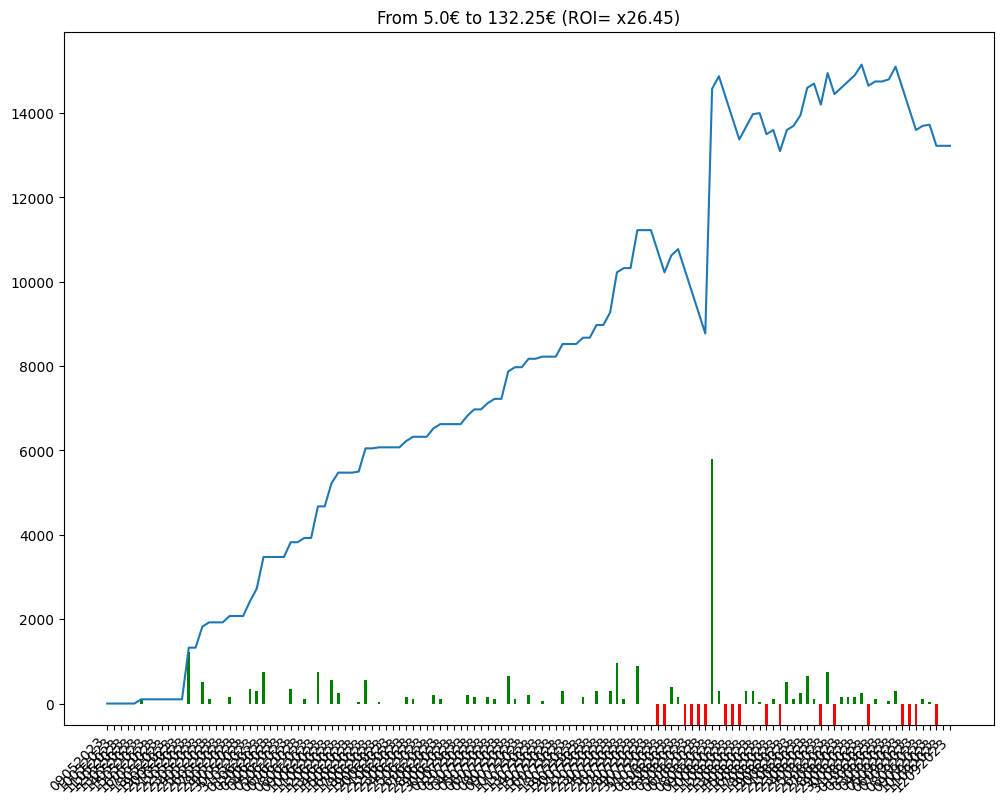
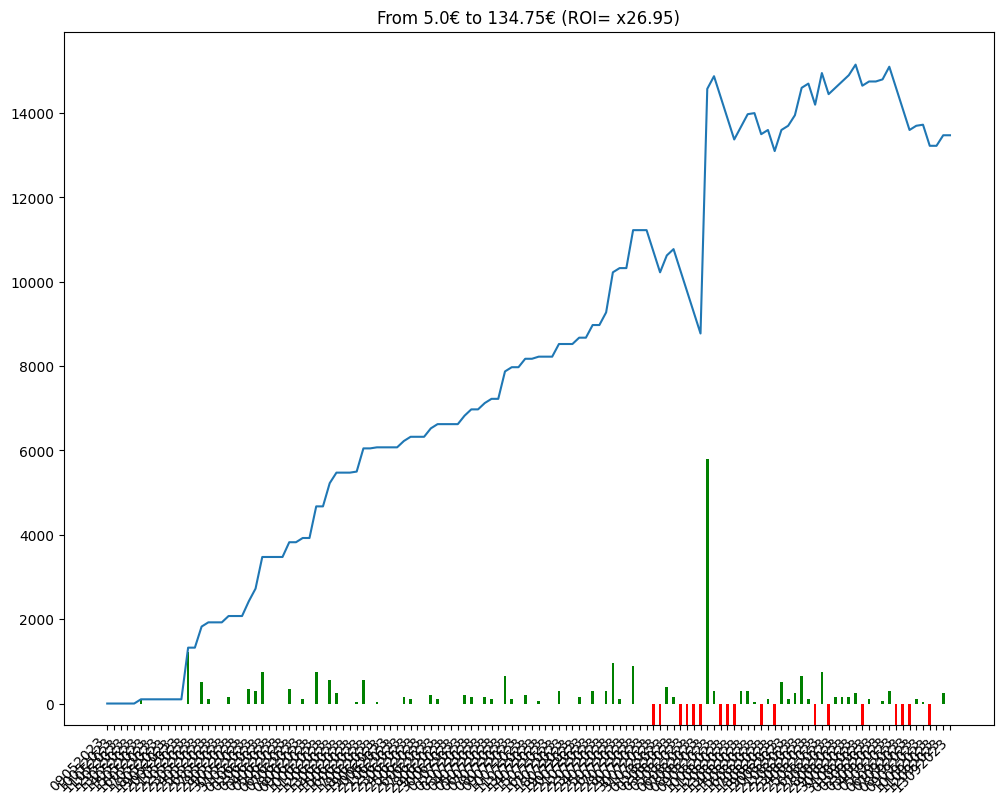
comment from python script

diff --git a/bethistory.html b/bethistory.html
@@ -86,7 +86,8 @@
             En observant la courbe 🤔, on peut avoir une idée visuelle de l'évolution des gains et ainsi évaluer le model utilisé 🧑🏫.
         </p>
         
-        <img src = "/candle.png" alt="candle chart"/><table><tr><td>Chevaux joués</td><td>Gains</td><td>URL Circuits</td></tr><tr><td>2 - ACT OF GLORY</td><td>0</td><td><a href=https://www.pmu.fr/turf/12092023/r5/c4 target="_blank">https://www.pmu.fr/turf/12092023/r5/c4</a></td></tr>
+        <img src = "/candle.png" alt="candle chart"/><table><tr><td>Chevaux joués</td><td>Gains</td><td>URL Circuits</td></tr><tr><td>2 - MAWHOB</td><td>0</td><td><a href=https://www.pmu.fr/turf/13092023/r3/c3 target="_blank">https://www.pmu.fr/turf/13092023/r3/c3</a></td></tr>
+<tr><td>2 - ACT OF GLORY</td><td>+250</td><td><a href=https://www.pmu.fr/turf/12092023/r5/c4 target="_blank">https://www.pmu.fr/turf/12092023/r5/c4</a></td></tr>
 <tr><td>1 - PANNETONE</td><td>-500</td><td><a href=https://www.pmu.fr/turf/10092023/r1/c8 target="_blank">https://www.pmu.fr/turf/10092023/r1/c8</a></td></tr>
 <tr><td>1 - NAZWA</td><td>+25</td><td><a href=https://www.pmu.fr/turf/09092023/r2/c1 target="_blank">https://www.pmu.fr/turf/09092023/r2/c1</a></td></tr>
 <tr><td>4 - NOPE NEVER</td><td>+100</td><td><a href=https://www.pmu.fr/turf/08092023/r4/c1 target="_blank">https://www.pmu.fr/turf/08092023/r4/c1</a></td></tr>
